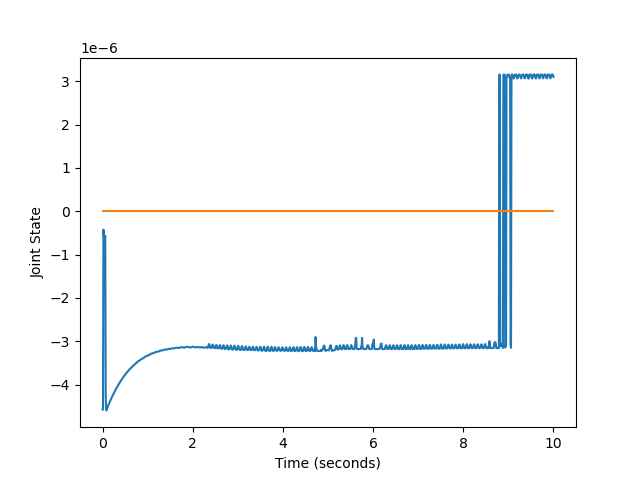
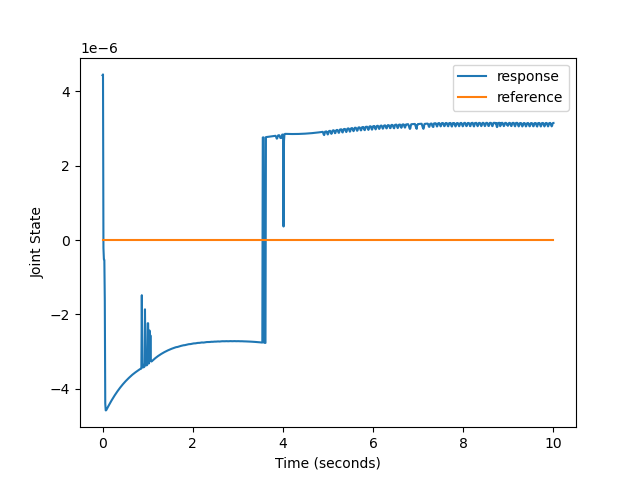
misc updates

diff --git a/src/scara_kinematics/scara_kinematics/pd_controller.py b/src/scara_kinematics/scara_kinematics/pd_controller.py
@@ -47,7 +47,6 @@ class PlotTool():
         x = np.linspace(0, self.total_time, self.total_counts)
 
         for i in range(3):
-            # TODO: inefficient way of plotting; creating a new figure each iteration
             plt.figure()
             y = self.cur_state_total[i]
             y_r = self.ref_state_total[i]
@@ -55,6 +54,7 @@ class PlotTool():
             plt.ylabel('Joint State')
             plt.plot(x,y, label="response")
             plt.plot(x,y_r, label="reference")
+            plt.legend()
             plt.savefig('joint{0}_response.png'.format(i))
 
         print('Plots created...')
@@ -118,13 +118,6 @@ class PDControllerNode(Node):
     def publish_effort(self):
         # error between current state and reference state
         cur_error = self.ref_state_ - self.cur_state_
-
-        # based on direction of error, apply different Kp value for joint 3
-        '''
-        if cur_error[2] < 0:  # if error negative, we are travelling upwards
-            self.kp_[2] = 1000
-            self.kd_[2] = 30
-        '''
 
         # control input that has proportional and derivate components
         u = self.kp_*cur_error + self.kd_*(cur_error-self.prev_error_) / self.update_period_
